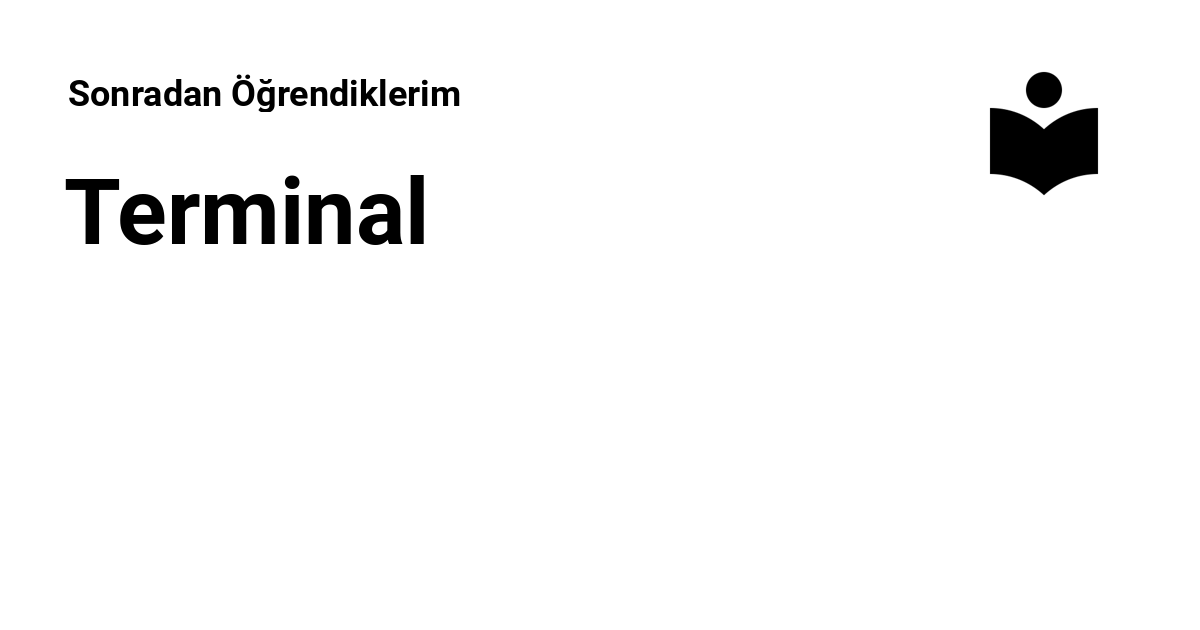
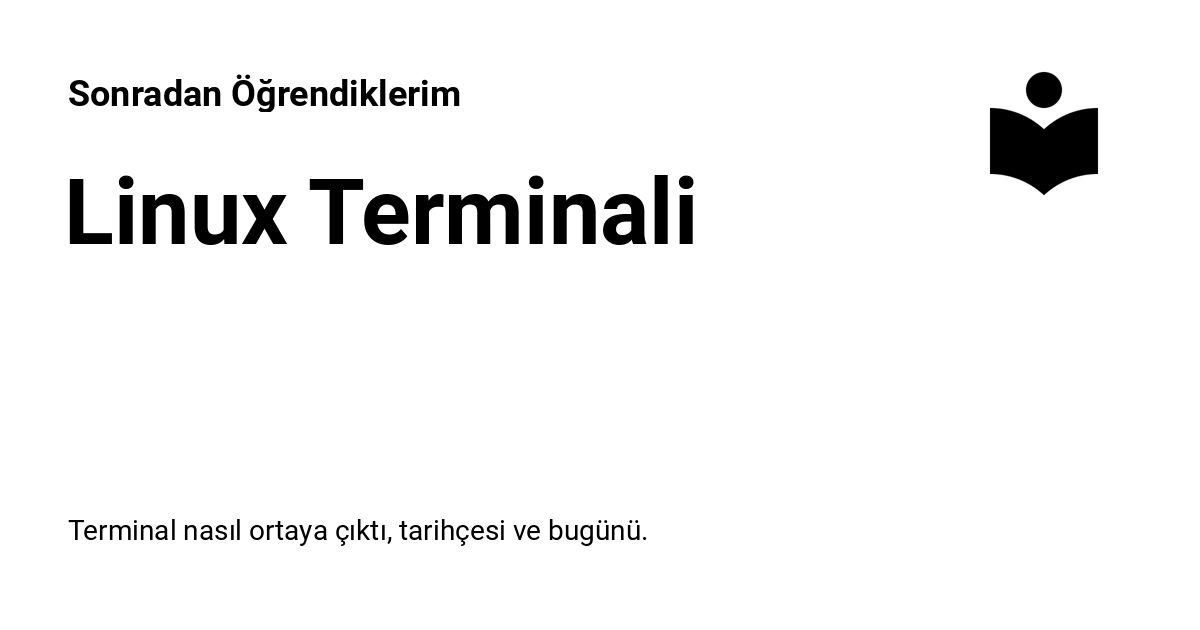
Deployed 053d7a5 with MkDocs version: 1.5.3

Changed region(s): [[0.0308, 0.2714, 0.5858, 0.3921], [0.0617, 0.8143, 0.5242, 0.8746]]

diff --git a/ubuntu/terminal/index.html b/ubuntu/terminal/index.html
@@ -6,6 +6,8 @@
       <meta charset="utf-8">
       <meta name="viewport" content="width=device-width,initial-scale=1">
       
+        <meta name="description" content="Terminal nasıl ortaya çıktı, tarihçesi ve bugünü.">
+      
       
         <meta name="author" content="Eren Türkay">
       
@@ -22,7 +24,7 @@
     
     
       
-        <title>Terminal - Sonradan Öğrendiklerim</title>
+        <title>Linux Terminali - Sonradan Öğrendiklerim</title>
       
     
     
@@ -69,9 +71,9 @@
       
         <meta  property="og:type"  content="website" >
       
-        <meta  property="og:title"  content="Terminal - Sonradan Öğrendiklerim" >
+        <meta  property="og:title"  content="Linux Terminali - Sonradan Öğrendiklerim" >
       
-        <meta  property="og:description"  content="None" >
+        <meta  property="og:description"  content="Terminal nasıl ortaya çıktı, tarihçesi ve bugünü." >
       
         <meta  property="og:image"  content="https://sonradanogrendiklerim.com/assets/images/social/ubuntu/terminal.png" >
       
@@ -85,9 +87,9 @@
       
         <meta  name="twitter:card"  content="summary_large_image" >
       
-        <meta  name="twitter:title"  content="Terminal - Sonradan Öğrendiklerim" >
+        <meta  name="twitter:title"  content="Linux Terminali - Sonradan Öğrendiklerim" >
       
-        <meta  name="twitter:description"  content="None" >
+        <meta  name="twitter:description"  content="Terminal nasıl ortaya çıktı, tarihçesi ve bugünü." >
       
         <meta  name="twitter:image"  content="https://sonradanogrendiklerim.com/assets/images/social/ubuntu/terminal.png" >
       
@@ -108,6 +110,11 @@
     <input class="md-toggle" data-md-toggle="search" type="checkbox" id="__search" autocomplete="off">
     <label class="md-overlay" for="__drawer"></label>
     <div data-md-component="skip">
+      
+        
+        <a href="#emulator" class="md-skip">
+          Ana içeriğe geç
+        </a>
       
     </div>
     <div data-md-component="announce">
@@ -139,7 +146,7 @@
         <div class="md-header__topic" data-md-component="header-topic">
           <span class="md-ellipsis">
             
-              Terminal
+              Linux Terminali
             
           </span>
         </div>
@@ -460,6 +467,17 @@
       
       
       
+        <label class="md-nav__link md-nav__link--active" for="__toc">
+          
+  
+  <span class="md-ellipsis">
+    Terminal
+  </span>
+  
+
+          <span class="md-nav__icon md-icon"></span>
+        </label>
+      
       <a href="./" class="md-nav__link md-nav__link--active">
         
   
@@ -469,6 +487,50 @@
   
 
       </a>
+      
+        
+
+<nav class="md-nav md-nav--secondary" aria-label="İçindekiler">
+  
+  
+  
+  
+    <label class="md-nav__title" for="__toc">
+      <span class="md-nav__icon md-icon"></span>
+      İçindekiler
+    </label>
+    <ul class="md-nav__list" data-md-component="toc" data-md-scrollfix>
+      
+        <li class="md-nav__item">
+  <a href="#emulator" class="md-nav__link">
+    <span class="md-ellipsis">
+      Emülatör
+    </span>
+  </a>
+  
+</li>
+      
+        <li class="md-nav__item">
+  <a href="#terminal" class="md-nav__link">
+    <span class="md-ellipsis">
+      Terminal
+    </span>
+  </a>
+  
+</li>
+      
+        <li class="md-nav__item">
+  <a href="#terminal-emulatoru" class="md-nav__link">
+    <span class="md-ellipsis">
+      Terminal Emülatörü
+    </span>
+  </a>
+  
+</li>
+      
+    </ul>
+  
+</nav>
       
     </li>
   
@@ -508,6 +570,41 @@
   
   
   
+    <label class="md-nav__title" for="__toc">
+      <span class="md-nav__icon md-icon"></span>
+      İçindekiler
+    </label>
+    <ul class="md-nav__list" data-md-component="toc" data-md-scrollfix>
+      
+        <li class="md-nav__item">
+  <a href="#emulator" class="md-nav__link">
+    <span class="md-ellipsis">
+      Emülatör
+    </span>
+  </a>
+  
+</li>
+      
+        <li class="md-nav__item">
+  <a href="#terminal" class="md-nav__link">
+    <span class="md-ellipsis">
+      Terminal
+    </span>
+  </a>
+  
+</li>
+      
+        <li class="md-nav__item">
+  <a href="#terminal-emulatoru" class="md-nav__link">
+    <span class="md-ellipsis">
+      Terminal Emülatörü
+    </span>
+  </a>
+  
+</li>
+      
+    </ul>
+  
 </nav>
                   </div>
                 </div>
@@ -523,7 +620,27 @@
 
   <h1>Terminal</h1>
 
-
+<h2 id="emulator">Emülatör<a class="headerlink" href="#emulator" title="Permanent link">&para;</a></h2>
+<p>Terminali anlamak için aslında <a href="https://simple.wikipedia.org/wiki/Emulator" target="_blank">emulator</a> kelimesine biraz aşina olmamız
+gerekiyor. Sektör genelinde kısaltılmış olarak <code>terminal</code> dense de aslında burada kastettiğimiz
+<code>terminal emülatörü</code>.</p>
+<p>Emülatöre kelime anlamıyla <code>bir [şey] gibi davranmak</code> diyebiliriz. Bunu en iyi şekilde anlamak için
+eskiden(?) televizyona bağlayarak oynadığımız <code>Mario</code>, <code>Mortal Combat</code> gibi oyunları elimizdeki yeni
+bilgisayarlar ile nasıl oynayabiliriz üzerine düşünmemiz gerekiyor. Bu oyunların çalıştığı,
+televizyona bağladığımız cihazlar da birer bilgisayardı ve kendilerine ait apayrı teknolojileri
+vardı.</p>
+<p>Bunu düşündüğümüzde aslında ortaya bilgisayar içinde bilgisayar fikri ortaya çıkıyor. Bu oyunları
+oynamak için <a href="https://simple.wikipedia.org/wiki/X86" target="_blank">x86</a> veya başka bir mimariye sahip bilgisayarlarımızda,
+<a href="https://simple.wikipedia.org/wiki/Nintendo_Entertainment_System" target="_blank">NES</a> veya <a href="https://en.wikipedia.org/wiki/Atari_2600" target="_blank">Atari</a> mimarisini emüle etmemiz
+gerekmekte. Yani eksiğiyle ve fazlasıyla tam anlamıyla onun gibi davranmasını sağlamamız gerekiyor
+ki bu oyunları (programları) çalıştırabilelim.</p>
+<p>Bunu yapabilmek için bir emülatöre ihtiyacımız var. Bu emülatör de bilgisayarımızda çalışan herhangi
+bir programdan farksız değil. Sadece eski oyunları çalıştırmak için oluşturulmuş, özel olarak
+tasarlanmış, ilgili mimariyi çok iyi kavramış ve nasıl çalıştığını bilerek ona göre davranan bir
+uygulamadan fazlası değil. Günümüzde <a href="https://en.wikipedia.org/wiki/DOSBox" target="_blank">DOSBox</a>,
+<a href="https://simple.wikipedia.org/wiki/Wine_(software)" target="_blank">Wine</a> bunlara örnek olarak verilebilir.</p>
+<h2 id="terminal">Terminal<a class="headerlink" href="#terminal" title="Permanent link">&para;</a></h2>
+<h2 id="terminal-emulatoru">Terminal Emülatörü<a class="headerlink" href="#terminal-emulatoru" title="Permanent link">&para;</a></h2>
 
 
 

diff --git a/ubuntu/kurulum/index.html b/ubuntu/kurulum/index.html
@@ -6,7 +6,7 @@
       <meta charset="utf-8">
       <meta name="viewport" content="width=device-width,initial-scale=1">
       
-        <meta name="description" content="Bilgisayar mühendisliği öğrencileri için işletim sistemleri ve Ubuntu kurulumu">
+        <meta name="description" content="Bilgisayar mühendisliği öğrencileri için işletim sistemleri ve Ubuntu kurulumu.">
       
       
         <meta name="author" content="Eren Türkay">
@@ -75,7 +75,7 @@
       
         <meta  property="og:title"  content="Ubuntu Kurulumu - Sonradan Öğrendiklerim" >
       
-        <meta  property="og:description"  content="Bilgisayar mühendisliği öğrencileri için işletim sistemleri ve Ubuntu kurulumu" >
+        <meta  property="og:description"  content="Bilgisayar mühendisliği öğrencileri için işletim sistemleri ve Ubuntu kurulumu." >
       
         <meta  property="og:image"  content="https://sonradanogrendiklerim.com/assets/images/social/ubuntu/kurulum.png" >
       
@@ -91,7 +91,7 @@
       
         <meta  name="twitter:title"  content="Ubuntu Kurulumu - Sonradan Öğrendiklerim" >
       
-        <meta  name="twitter:description"  content="Bilgisayar mühendisliği öğrencileri için işletim sistemleri ve Ubuntu kurulumu" >
+        <meta  name="twitter:description"  content="Bilgisayar mühendisliği öğrencileri için işletim sistemleri ve Ubuntu kurulumu." >
       
         <meta  name="twitter:image"  content="https://sonradanogrendiklerim.com/assets/images/social/ubuntu/kurulum.png" >
       
